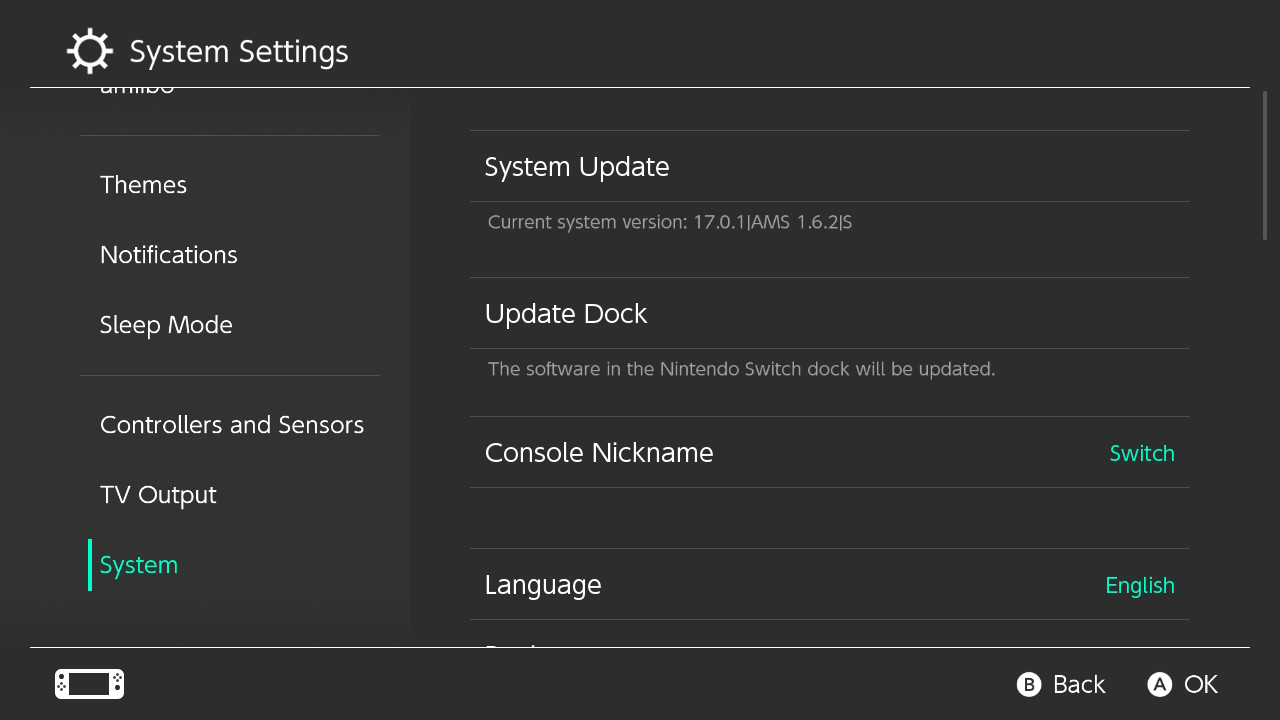
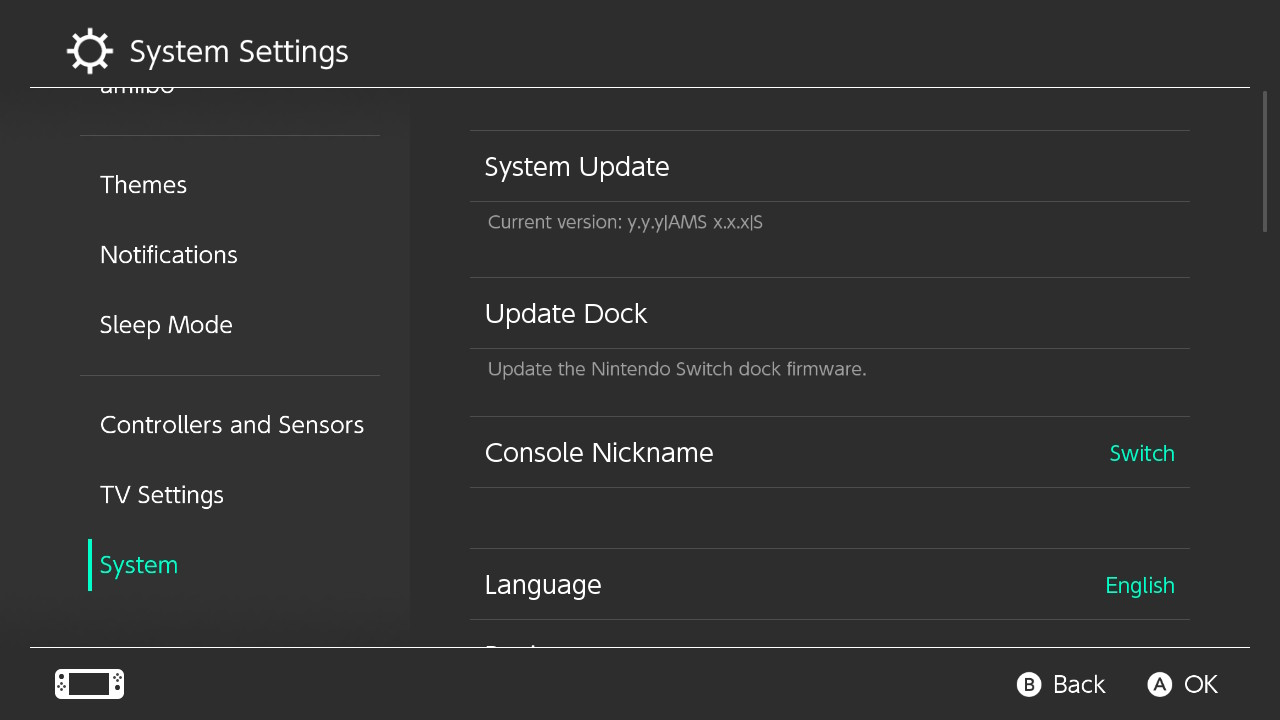
Misc changes to the launching_cfw page, including (imo) better settings picture(s).

Changed region(s): [[0.375, 0.4889, 0.7812, 0.5194], [0.4375, 0.275, 0.6562, 0.3361], [0.0938, 0.6722, 0.1875, 0.7028]]

diff --git a/docs/user_guide/all/launching_cfw.md b/docs/user_guide/all/launching_cfw.md
@@ -7,9 +7,9 @@ outline: false
 
 Now that the preparation work is out of the way, we're finally ready to launch custom firmware on the Switch.
 
-Unlike systems such as the DSi, Wii, or 3DS, Switch CFW is currently volatile (nonpersistent).
+Unlike systems such as the DSi, Wii, or 3DS, Switch CFW is volatile (nonpersistent).
 
-It will only work as long as your Switch is on. As soon as your Switch completely loses power for any reason (shutting down, battery dying, etc.), CFW will no longer be active and you will need to enter RCM and inject the hekate payload if you wish to boot into CFW again (only relevant for users with unpatched consoles).
+It will only stay as long as your Switch is on and in CFW. As soon as your Switch completely turns off, or exits CFW for any reason (shutting down, battery dying, booting stock etc.), CFW will no longer be active. If you wish to boot into CFW again, with an unpatched console you will need to enter RCM and inject the hekate payload while with a modchip, you only need to power the console on and the modchip will inject the payload.
 
 ::: danger
 
@@ -38,6 +38,8 @@ If you wish to set up an extra method of blocking Nintendo's servers on your emu
 
 ![Atmosphere version string](img/launching_cfw_atmosphere_version_string2.jpg)
 
+* **Note:** The `y.y.y` is where your system version would be. The `x.x.x` after the `AMS` is where your Atmosphere version would be.
+
 ::::
 
 :::: tab Instructions for sysCFW
@@ -53,6 +55,7 @@ Hekate is now booting into sysCFW. To verify that sysCFW launched properly, open
 
 ![Atmosphere version string](img/launching_cfw_atmosphere_version_string3.jpg)
 
+* **Note:** The `y.y.y` is where your system version would be. The `x.x.x` after the `AMS` is where your Atmosphere version would be.
 ::::
 
 :::::
@@ -61,19 +64,19 @@ Hekate is now booting into sysCFW. To verify that sysCFW launched properly, open
 
 **Rebooting to Hekate**
 
-Once booted into CFW, you can easily get back to Hekate by holding the power button, and selecting `Restart` in the power menu or by using the "reboot to payload" homebrew app in the homebrew menu. (Note that while the Reboot to Payload *app* app does *not* work on modchipped Switch consoles, those already automatically run payloads upon reboot in the first place by default.)
+Once booted into CFW, you can easily get back to Hekate by using the "reboot to payload" homebrew app in the homebrew menu, or by holding the power button, and then selecting `Restart` in the power menu. (Note that while the Reboot to Payload app does *not* work on modchipped Switch consoles. Those consoles already automatically run payloads upon reboot.)
 
 :::
 
 ## Launching the Homebrew Menu
 
-You will now be able to launch the Homebrew Menu by opening the album or by holding the `R` button while launching any game (including demos/cartridges), or application (e.g. YouTube/Hulu). If `R` is not held, the game or application will launch like normal.
+You will now be able to launch the Homebrew Menu by opening the album (called "applet mode") or by holding the `R` button while launching any game (including demos/cartridges), or application (e.g. YouTube/Hulu) (called "title override"). If `R` is not held, the game or application will launch like normal.
 
 ::: warning
 
 **A note about using the album for the Homebrew Menu**
 
-* Using Album for the Homebrew Menu instead of a game or application has several limitations, including but not limited to: a smaller amount of available memory (RAM), as well as being unable to launch a full-featured web browser. It is strongly recommended to launch homebrew through applications or games instead.
+* Using the Album for the Homebrew Menu instead of a game or application has several limitations, including but not limited to: much less available memory (RAM), as well as being unable to launch a full-featured web browser. It is recommended to launch homebrew through applications or games instead.
 
 :::
 
